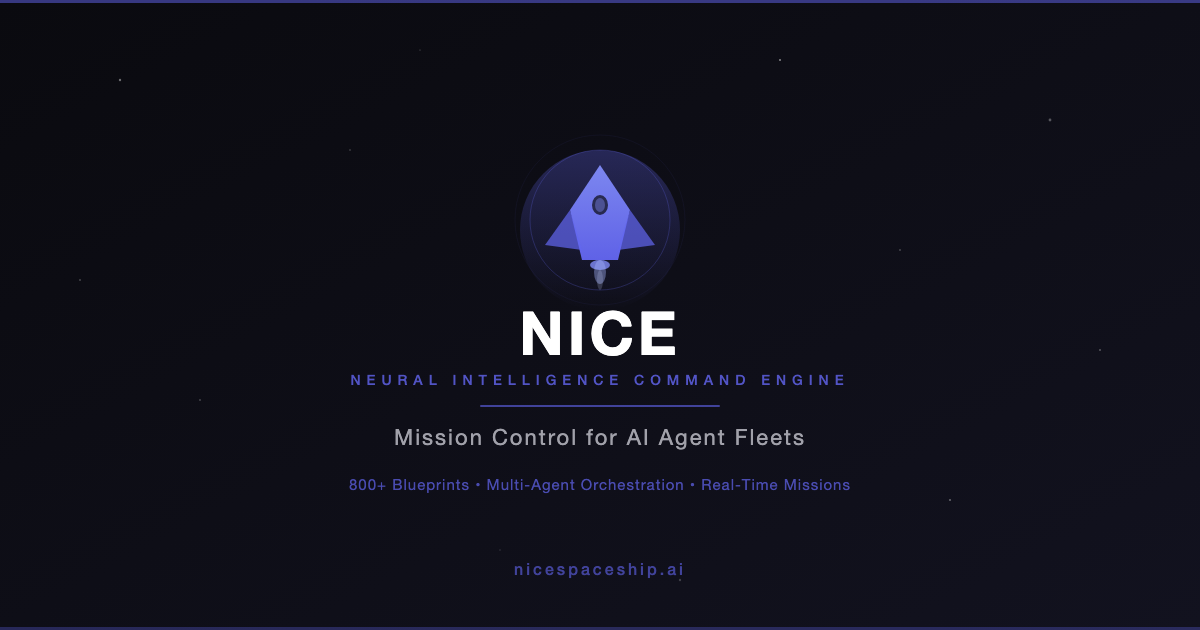
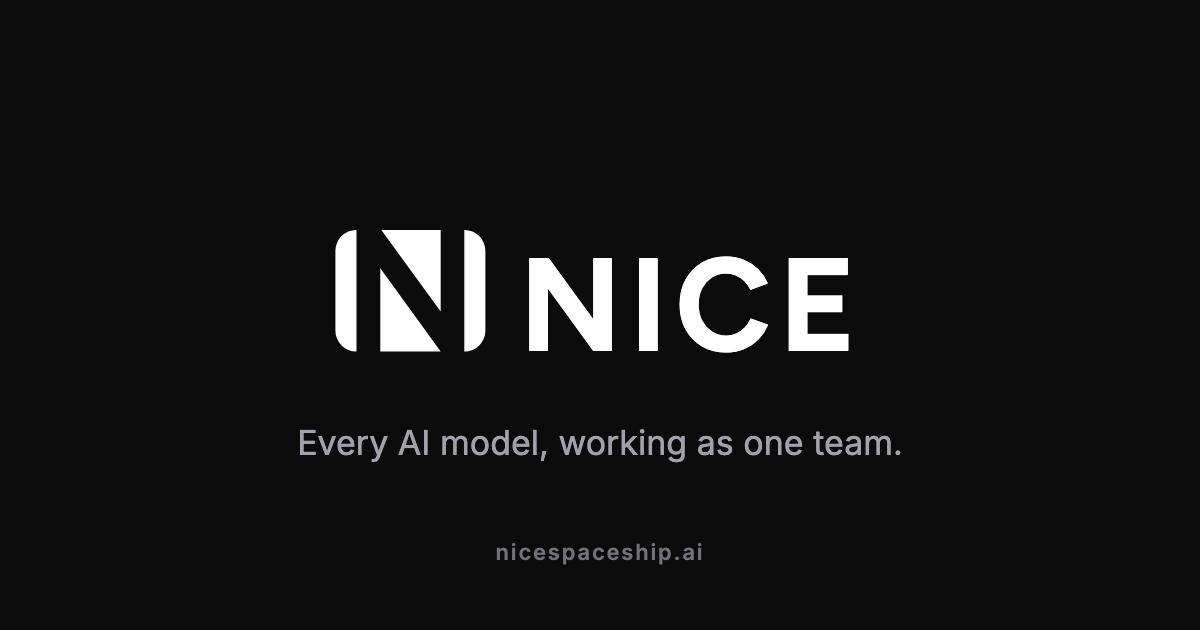
Replace the ring mark with the Figtree N tile
The ring mark read as orbits, and NICE is meant to look like a plain application. The new mark is a rounded tile with Figtree Bold's N cut through it, so the strokes split the tile into pieces, and the NICE wordmark moves from Orbitron to Figtree Bold so the two Ns match. The mark is one evenodd path with no font, so the favicons, app icons and social image render it the same everywhere. NICE SPACESHIP keeps Orbitron.

diff --git a/app/index.html b/app/index.html
@@ -30,7 +30,7 @@
   <link rel="preconnect" href="https://fonts.gstatic.com" crossorigin />
   <link rel="preconnect" href="https://cdn.jsdelivr.net" crossorigin />
   <link rel="dns-prefetch" href="https://zacllshbgmnwsmliteqx.supabase.co" />
-  <link href="https://fonts.googleapis.com/css2?family=Inter:wght@300;400;500;600;700;900&family=Orbitron:wght@400;700;900&family=Rajdhani:wght@400;500;600;700&family=Fira+Code:wght@300;400;500&family=Share+Tech+Mono&family=Antonio:wght@400;700&family=Space+Mono:wght@400;700&family=IBM+Plex+Sans:wght@400;500;600&family=Press+Start+2P&family=Exo+2:wght@300;400;500;600;700&family=Playfair+Display:ital,wght@0,400;0,700;1,400&family=EB+Garamond:wght@400;500;600;700&family=Courier+Prime:wght@400;700&display=swap" rel="stylesheet" />
+  <link href="https://fonts.googleapis.com/css2?family=Inter:wght@300;400;500;600;700;900&family=Figtree:wght@700&family=Orbitron:wght@400;700;900&family=Rajdhani:wght@400;500;600;700&family=Fira+Code:wght@300;400;500&family=Share+Tech+Mono&family=Antonio:wght@400;700&family=Space+Mono:wght@400;700&family=IBM+Plex+Sans:wght@400;500;600&family=Press+Start+2P&family=Exo+2:wght@300;400;500;600;700&family=Playfair+Display:ital,wght@0,400;0,700;1,400&family=EB+Garamond:wght@400;500;600;700&family=Courier+Prime:wght@400;700&display=swap" rel="stylesheet" />
   <link rel="stylesheet" href="../public/css/theme.css?v=55" />
   <link rel="stylesheet" href="./css/app.css?v=55" />
 </head>
@@ -41,7 +41,7 @@
   <symbol id="icon-home" viewBox="0 0 24 24"><path d="M3 9l9-7 9 7v11a2 2 0 0 1-2 2H5a2 2 0 0 1-2-2z"/><polyline points="9 22 9 12 15 12 15 22"/></symbol>
   <symbol id="icon-agent" viewBox="0 0 24 24"><rect x="7" y="8" width="10" height="8" rx="2" stroke-width="1.75" stroke-linecap="round" stroke-linejoin="round"/><path d="M9 2h6M12 2v6" stroke-width="1.75" stroke-linecap="round" stroke-linejoin="round"/><circle cx="9.5" cy="12" r="1" fill="currentColor" stroke="none"/><circle cx="14.5" cy="12" r="1" fill="currentColor" stroke="none"/><path d="M9 16v2M15 16v2M3 12h4M17 12h4" stroke-width="1.75" stroke-linecap="round" stroke-linejoin="round"/></symbol>
   <symbol id="icon-spaceship" viewBox="0 0 3904 3379.96"><path fill="currentColor" stroke="none" d="M3904,3379.96l-1953.37-614.82L0,3379.96l1507.93-1383.04L1946.66,16.66l9.29-16.66,442.33,1995.71,1505.7,1384.25ZM2120.63,1879.39L1959.98,90.02l-7.93-53.99-168.82,1843.2c-125.13,53.5-228.34,189.67-239.17,326.83-1.51,19.1,4.52,81.65-4.09,91.91L32.02,3359.96l1678.05-772.27c44.36,24.24,85.06,48.51,134.8,61.44,108.54,28.22,204.01,14.13,303.22-35.04,17.15-8.5,36.89-29.62,55.95-24.35l1667.93,770.23-1511.26-1064.72c20.11-172.37-79.84-348.94-240.08-415.86Z"/><path fill="currentColor" stroke="none" d="M1781.4,2422.6c-212.47-214.36,91.23-547.83,322.65-356.65,260.72,215.38-90.31,591.06-322.65,356.65Z"/></symbol>
-  <symbol id="icon-nice" viewBox="0 0 5000 5000" fill="currentColor"><path d="M2463.17,3633.17c348.87-33.89,529.56,395.76,262.71,618.71-179.73,150.16-459.24,78.58-546.6-137.16-85.98-212.33,54.43-459.26,283.89-481.55Z"/><path d="M3763.2,2905.2c246.91-17.2,431.6,227.75,353.89,461.89-87.4,263.37-443.86,323.54-610.74,100.57-168.07-224.56-21.82-543.04,256.85-562.46Z"/><path d="M2467.2,673.2c345.58-32.47,524.02,397,258.68,618.68-180.13,150.49-459.08,78.97-546.6-137.16-87.17-215.28,55.93-459.73,287.92-481.52Z"/><path d="M1203.18,2905.19c275.09-15.44,457.71,280.84,322.9,522.88-119.67,214.87-425.07,238.14-577.97,45.82-177.41-223.16-28.22-552.8,255.07-568.7Z"/><path d="M3537.4,2014.6c-177.73-177.72-114.08-485.01,120.51-574.69,274.93-105.11,544.87,148.19,461.85,429.85-73.68,249.96-398.06,329.14-582.35,144.85Z"/><path d="M1187.2,1409.2c279.69-26.25,476.07,269.48,341.49,517.49-117.32,216.2-419.09,243.76-576.57,55.2-178.93-214.25-41.59-546.72,235.08-572.68Z"/><path d="M2447.2,1853.2c550.99-42.77,908.61,573.22,585.69,1025.69-276.72,387.72-866.37,355.58-1097.57-60.2-228.12-410.24,44.43-929.2,511.88-965.49ZM2455.2,1953.2c-427.55,33.48-653.11,541.85-388.78,882.39,257.89,332.24,777.21,269.58,942.28-116.89,164.38-384.87-139.97-797.88-553.5-765.5Z"/><path d="M1272,2204v604c-33.72-4.09-66.28-4.09-100,0v-604c31.79,6.4,68.34,6.38,100,0Z"/><path d="M3836,2808c-34.42-3.47-65.53-5.37-100,0v-596c2.93-1.06,4.78,4,6,4h84c1.4,0,4.44-7.1,10,2v590Z"/><polygon points="3375.95 1580 2868.23 1291.66 2912.04 1203.99 3418.07 1491.98 3423.59 1497.98 3375.95 1580"/><polygon points="2139.99 1291.94 1637.96 1579.88 1588.37 1497.36 2086.75 1204.5 2095.49 1210.49 2139.99 1291.94"/><path d="M2139.98,3712.08c2.15,3.03-33.45,55.51-38.18,63.72-4.14,7.19-5.9,25.29-15.33,23.83l-494.1-289.2,43.94-82.16,11.78,1.54,491.88,282.27Z"/><path d="M3366,3424.08l45.38,82.85-3.37,11.08-492.12,280.28c-7.13-25.22-36.8-54.55-44.83-75.52-1.4-3.67-4.89-6.66-1.38-10.87l496.32-287.83Z"/><path d="M2483.19,2101.18c280.93-16.74,488.07,258.72,401.96,525.96-85.83,266.35-424.89,363.36-639.04,180.75-276.2-235.52-124.03-685.19,237.08-706.71Z"/></symbol>
+  <symbol id="icon-nice" viewBox="0 0 79 64" fill="currentColor"><path fill-rule="evenodd" d="M11 0H68A11 11 0 0 1 79 11V53A11 11 0 0 1 68 64H11A11 11 0 0 1 0 53V11A11 11 0 0 1 11 0ZM11.11 64L11.11 0L24.19 0L55.45 42.97L55.45 0L67.89 0L67.89 64L55.45 64L23.64 20.21L23.64 64Z"/></symbol>
   <symbol id="icon-profile" viewBox="0 0 24 24"><path d="M20 21v-2a4 4 0 0 0-4-4H8a4 4 0 0 0-4 4v2"/><circle cx="12" cy="7" r="4"/></symbol>
   <symbol id="icon-task" viewBox="0 0 24 24"><rect x="3" y="5" width="16" height="16" rx="2"/><path d="M7 13l3 3 7-7"/><path d="M8 3v4M16 3v4"/></symbol>
   <symbol id="icon-library" viewBox="0 0 24 24"><rect x="4" y="5" width="11" height="15" rx="2"/><path d="M9 3.5h9a2 2 0 0 1 2 2v12"/></symbol>
@@ -238,7 +238,7 @@
        the menu. The labeled links below stay visible as icons in both states. -->
   <div class="side-rail">
     <a href="#/" class="side-rail-btn side-rail-nice" id="side-rail-nice" data-home-link aria-label="Home" title="Home">
-      <svg class="side-rail-nice-logo" viewBox="0 0 5000 5000" aria-hidden="true"><use href="#icon-nice"/></svg>
+      <svg class="side-rail-nice-logo" viewBox="0 0 79 64" aria-hidden="true"><use href="#icon-nice"/></svg>
     </a>
     <button type="button" class="side-rail-btn side-rail-expand" id="side-rail-expand" aria-label="Expand menu" title="Expand menu">
       <svg class="icon icon-sm" fill="none" stroke="currentColor" stroke-width="1.5" stroke-linecap="round" stroke-linejoin="round"><use href="#icon-collapse"/></svg>
@@ -249,7 +249,7 @@
        the right. The theme button (#btn-hud) slides the HUD panel down. -->
   <div class="side-header">
     <a href="#/" class="side-brand" id="side-brand" data-home-link aria-label="Home">
-      <svg class="side-brand-logo" viewBox="0 0 5000 5000" aria-hidden="true"><use href="#icon-nice"/></svg>
+      <svg class="side-brand-logo" viewBox="0 0 79 64" aria-hidden="true"><use href="#icon-nice"/></svg>
       <span class="side-brand-text">NICE</span>
     </a>
     <div class="side-header-actions">
@@ -396,7 +396,7 @@
 <div class="app-mobile-bar" id="app-mobile-bar">
   <div class="mobile-bar-left">
     <a href="#/" class="mobile-bar-btn mobile-bar-btn-nice" data-home-link aria-label="Home">
-      <svg class="mobile-bar-nice-logo" viewBox="0 0 5000 5000" aria-hidden="true"><use href="#icon-nice"/></svg>
+      <svg class="mobile-bar-nice-logo" viewBox="0 0 79 64" aria-hidden="true"><use href="#icon-nice"/></svg>
     </a>
   </div>
   <span class="app-brand-text">NICE</span>

diff --git a/app/css/app.css b/app/css/app.css
@@ -77,7 +77,7 @@
   --fw-regular: 400;
   --fw-medium:  600;
   --fw-bold:    700;
-  --fw-black:   900;  /* brand wordmark only (Orbitron Black) — not for prose/UI */
+  --fw-black:   900;  /* NICE SPACESHIP wordmark only (Orbitron Black); not for prose/UI */
 
   /* ─── Card-scoped typography (visual artifacts, not prose) ──────
      Cards are TCG-style collectibles; the 11px prose floor does not
@@ -1249,7 +1249,8 @@ h4 { font-size: var(--text-base); font-weight: var(--fw-medium); line-height: va
 }
 .side-rail-btn:hover { color:var(--accent, var(--nav-text, var(--text))); }
 .side-rail-btn .icon { width:24px; height:24px; }
-.side-rail-nice-logo { width:30px; height:30px; display:block; }
+/* The NICE mark is a 79:64 tile, so its logos size by height. */
+.side-rail-nice-logo { height:24px; width:auto; aspect-ratio:79/64; display:block; }
 .side-rail-expand .icon { transform:scaleX(-1); }
 
 /* Open header — NICE wordmark (Bridge CTA) on the left, theme toggle on
@@ -1269,10 +1270,10 @@ h4 { font-size: var(--text-base); font-weight: var(--fw-medium); line-height: va
   transition:color .15s;
 }
 .side-brand:hover { color:var(--accent, var(--nav-text, var(--text))); }
-.side-brand-logo { width:26px; height:26px; display:block; flex-shrink:0; }
+.side-brand-logo { height:21px; width:auto; aspect-ratio:79/64; display:block; flex-shrink:0; }
 .side-brand-text {
-  font-family:var(--font-brand, var(--font-h)); font-size:var(--text-lg); font-weight:var(--fw-black);
-  letter-spacing:var(--tracking-wordmark); text-transform:uppercase; line-height:1;
+  font-family:var(--font-brand, var(--font-h)); font-size:var(--text-lg); font-weight:var(--fw-bold);
+  letter-spacing:var(--tracking-caps); text-transform:uppercase; line-height:1;
 }
 .side-theme-btn {
   display:flex; align-items:center; justify-content:center;
@@ -1828,7 +1829,7 @@ html:not([data-theme]) .app-main,
 }
 .mobile-bar-btn-nice:hover { color:var(--accent); opacity:.85; }
 .mobile-bar-nice-logo {
-  width:28px; height:28px; fill:currentColor; display:block;
+  height:22px; width:auto; aspect-ratio:79/64; fill:currentColor; display:block;
 }
 .app-mobile-bar .app-brand-text {
   font-family:var(--font-brand, var(--font-h)); font-size:var(--text-sm); font-weight:var(--fw-bold);

diff --git a/public/css/landing.css b/public/css/landing.css
@@ -38,6 +38,7 @@
 
   --font-b: 'Inter', system-ui, -apple-system, sans-serif;
   --font-h: 'Orbitron', 'Inter', sans-serif;
+  --font-brand: 'Figtree', 'Inter', sans-serif;  /* the NICE wordmark */
   /* Mono only for indexes, numbers and spec data. */
   --font-m: ui-monospace, 'SF Mono', Menlo, Consolas, monospace;
 
@@ -169,8 +170,8 @@ section[id], .lp-codex { scroll-margin-top: calc(var(--header-h) + 8px); }
 .lp-header-inner { display: flex; align-items: center; justify-content: space-between; gap: 16px; height: var(--header-h); }
 .lp-brand { display: inline-flex; align-items: center; gap: 10px; text-decoration: none; }
 .lp-brand-text {
-  font-family: var(--font-h); font-size: var(--text-base); font-weight: var(--fw-bold);
-  letter-spacing: var(--tracking-caps-wider);
+  font-family: var(--font-brand); font-size: var(--text-md); font-weight: var(--fw-bold);
+  letter-spacing: var(--tracking-caps);
 }
 .lp-nav { display: flex; align-items: center; gap: 2px; }
 .lp-nav-link {
@@ -332,7 +333,7 @@ section[id], .lp-codex { scroll-margin-top: calc(var(--header-h) + 8px); }
 .lp-mock-side li.is-on { background: color-mix(in srgb, var(--w-ac) 20%, transparent); color: var(--w-fg); }
 .lp-mock-brand {
   display: flex; align-items: center; gap: 8px; margin: 0 6px 14px;
-  font-family: var(--font-h); font-size: var(--text-sm); font-weight: var(--fw-bold); letter-spacing: var(--tracking-caps-wide);
+  font-family: var(--font-brand); font-size: var(--text-sm); font-weight: var(--fw-bold); letter-spacing: var(--tracking-caps);
 }
 .lp-window.is-light .lp-mock-brand img { filter: invert(1); }
 .lp-mock-label { margin: 18px 10px 6px; font-family: var(--font-m); font-size: var(--text-2xs); letter-spacing: var(--tracking-caps); text-transform: uppercase; color: var(--w-muted); }

diff --git a/index.html b/index.html
@@ -37,7 +37,7 @@
   <link rel="apple-touch-icon" href="/app/icons/apple-touch-icon.png" />
   <link rel="preconnect" href="https://fonts.googleapis.com" />
   <link rel="preconnect" href="https://fonts.gstatic.com" crossorigin />
-  <link href="https://fonts.googleapis.com/css2?family=Inter:wght@400;600;700&family=Orbitron:wght@500;700;900&display=swap" rel="stylesheet" />
+  <link href="https://fonts.googleapis.com/css2?family=Inter:wght@400;600;700&family=Figtree:wght@700&family=Orbitron:wght@500;700;900&display=swap" rel="stylesheet" />
   <link rel="stylesheet" href="/public/css/landing.css?v=2" />
   <script src="/public/js/landing.js?v=2" defer></script>
   <script type="application/ld+json">

diff --git a/public/css/theme.css b/public/css/theme.css
@@ -76,7 +76,7 @@
   --font-h:       'Inter', sans-serif;
   --font-b:       'Inter', sans-serif;
   --font-m:       'Fira Code', monospace;
-  --font-brand:   'Orbitron', sans-serif;
+  --font-brand:   'Figtree', 'Inter', sans-serif;  /* the NICE wordmark; NICE SPACESHIP keeps Orbitron */
   --radius:       10px;
   --scan:         0;
   --border-width: 1px;

diff --git a/BRAND_GUIDELINES.md b/BRAND_GUIDELINES.md
@@ -13,12 +13,13 @@ Working reference as of 2026-10-02. The NICE SPACESHIP company icon is being red
 ## Logos
 
 - **NICE SPACESHIP (company): wordmark only, for now.** "NICE SPACESHIP" in Orbitron Black, uppercase, 0.4em tracking (`--tracking-wordmark`), black on white or white on black. A new company icon is in design; until it lands, nothing sits beside the wordmark. Don't pair it with the NICE ring mark.
-- **NICE (product): the ring mark.** Six orbit dots, two pillars, four chevrons, and a central ring. Files: `assets/nice-mark.svg` (auto light/dark), `assets/nice-mark-dark.svg` (black, for light surfaces), `assets/nice-mark-light.svg` (white, for dark surfaces). In the app it renders from the `#icon-nice` symbol in `app/index.html`, next to "NICE" in Orbitron.
+- **NICE (product): the N tile** (adopted 2026-10-30, replacing the ring mark). A rounded tile with Figtree Bold's N cut through its full height, so the strokes split the tile into pieces: the models are the pieces, NICE is what joins them. The tile is 79:64 and the N is centered with equal side bars. One compound path, `fill-rule="evenodd"`, no font or mask, so it renders the same everywhere. Files: `assets/nice-mark.svg` (auto light/dark), `assets/nice-mark-dark.svg` (black, for light surfaces), `assets/nice-mark-light.svg` (white, for dark surfaces), all on a square canvas; `app/icons/icon.svg` and its PNGs for the installed app. In the app it renders from the `#icon-nice` symbol in `app/index.html`, sized by height, next to "NICE" in Figtree. Ben may revisit it.
 - A three-triangle mark was tried for the company on 2026-10-01 and dropped. Don't reintroduce it.
 
 ## Typography
 
-- **Orbitron Black**: wordmarks only (NICE SPACESHIP, NICE).
+- **Figtree Bold** (700, `--tracking-caps`): the NICE wordmark (`--font-brand`). The icon's N is Figtree's N, so the two match.
+- **Orbitron Black**: the NICE SPACESHIP company wordmark only.
 - **Inter**: all UI and prose.
 - **Mono**: Fira Code in the app and site tokens (`--font-m`).
 

diff --git a/CLAUDE.md b/CLAUDE.md
@@ -5,7 +5,7 @@
 - **NICE SPACESHIP** = the company (all caps)
 - Product domain: `nicespaceship.ai`
 - Company domain: `nicespaceship.com`
-- Logos: NICE uses the ring mark (`assets/nice-mark*.svg`, `#icon-nice` in `app/index.html`). NICE SPACESHIP is wordmark-only (Orbitron Black, uppercase, `--tracking-wordmark`) while its new icon is designed; don't pair it with the ring mark. A three-triangle mark was tried 2026-10-01 and dropped. See `BRAND_GUIDELINES.md`.
+- Logos: NICE uses the N tile, a rounded tile with Figtree Bold's N cut through it, beside "NICE" in Figtree Bold (`assets/nice-mark*.svg`, `#icon-nice` in `app/index.html`, `--font-brand`). NICE SPACESHIP is wordmark-only (Orbitron Black, uppercase, `--tracking-wordmark`) while its new icon is designed; don't pair it with the ring mark. A three-triangle mark was tried 2026-10-01 and dropped. See `BRAND_GUIDELINES.md`.
 
 ## Blueprint Copy Standards
 Applies to ALL catalog content — blueprint `name`, `description`, `flavor`, `subtitle`, `caps`, ship `config.ship_system_prompt`, agent `config.system_prompt`, slot `label`, and any other user-facing string sourced from a seed migration.
